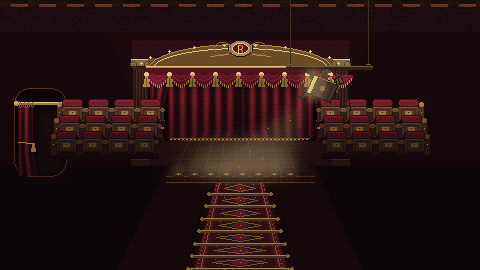
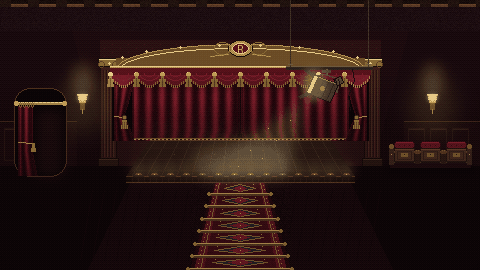
Art: club stage clears the exit, one row of seats and a wider stage
Drop the stalls block that stood in front of the curtained lounge exit and the
back rows on the right; keep a single front row against the right wall. Widen
the proscenium, curtain, valance and stage boards into the freed space, and
put dado panelling and sconces on the bare house walls. Hotspots and the walk
area follow the new art.

Changed region(s): [[0.0938, 0.1481, 1.0, 0.6815], [0.0, 0.4444, 0.0312, 0.4741]]

diff --git a/tools/art/club.py b/tools/art/club.py
@@ -771,11 +771,14 @@ def pendant(full, x, y, pool):
     light(full, "ellipse", pool, LAMPLIGHT, 0.06, 12)
 
 
+STAGE_X0, STAGE_X1 = 100, 380  # the proscenium, widened now the stalls are gone
+
+
 def proscenium(img):
     """The gilt proscenium arch framing the stage, its wall darker than the house."""
     d = ImageDraw.Draw(img)
-    d.polygon([(108, 0), (W - 109, 0), (324, 136), (156, 136)], fill=hx("1c0a0e"))
-    x0, x1, y0 = 132, 348, 10
+    x0, x1, y0 = STAGE_X0, STAGE_X1, 10
+    d.polygon([(x0 - 28, 0), (x1 + 28, 0), (x1 - 8, 136), (x0 + 8, 136)], fill=hx("1c0a0e"))
     d.rectangle([x0, y0, x1, 136], fill=hx("2a1014"))
     for x in range(x0 + 4, x1 - 2, 8):
         for y in range(y0 + 4 + (x // 8) % 2 * 4, 40, 8):
@@ -799,7 +802,7 @@ def proscenium(img):
     d.arc([x0 + 20, y0 + 8, x1 - 20, 60], 180, 360, fill=hx("e0c070"))
     for k in range(10):
         a = math.pi * (k + 0.5) / 10
-        px_, py_ = 240 - math.cos(a) * 100, 37 - math.sin(a) * 22
+        px_, py_ = 240 - math.cos(a) * ((x1 - x0) / 2 - 8), 37 - math.sin(a) * 22
         d.ellipse([px_ - 1, py_ - 1, px_ + 1, py_ + 1], fill=hx("f0d088"))
     d.ellipse([228, y0, 252, y0 + 16], fill=BRASS, outline=WOOD_DEEP)
     d.ellipse([232, y0 + 3, 248, y0 + 13], fill=hx("5a1018"), outline=hx("e0c070"))
@@ -813,18 +816,18 @@ def proscenium(img):
 def stage_backdrop(img):
     """The house curtain: a fringed valance, two velvet panels meeting at a seam, tied-back legs either side."""
     d = ImageDraw.Draw(img)
-    d.rectangle([148, 40, 332, 110], fill=hx("0a0406"))
+    d.rectangle([STAGE_X0 + 12, 40, STAGE_X1 - 12, 110], fill=hx("0a0406"))
     px = img.load()
-    x0, x1, y0, y1 = 168, 312, 46, 110
-    curtain_panel(px, y0, y1, lambda y: (x0, 239 - max(0, (y - 100)) * 0.3), 6, 0.3, 3011)
-    curtain_panel(px, y0, y1, lambda y: (241 + max(0, (y - 100)) * 0.3, x1), 6, 2.1, 3012)
+    x0, x1, y0, y1 = STAGE_X0 + 32, STAGE_X1 - 32, 46, 110
+    curtain_panel(px, y0, y1, lambda y: (x0, 239 - max(0, (y - 100)) * 0.3), 8, 0.3, 3011)
+    curtain_panel(px, y0, y1, lambda y: (241 + max(0, (y - 100)) * 0.3, x1), 8, 2.1, 3012)
     d.line([(240, y0), (240, y1)], fill=hx("16030a"))
     for x in range(x0, x1 + 1):
         if (x // 2) % 2:
             d.point((x, y1 - 1), fill=hx("c8a050"))
         d.point((x, y1 - 2), fill=hx("7a5a24"))
     # side legs caught back with gilt cords
-    for a, b, tie, s in ((150, 170, 86, 1), (310, 330, 86, -1)):
+    for a, b, tie, s in ((x0 - 18, x0 + 2, 86, 1), (x1 - 2, x1 + 18, 86, -1)):
         def leg(y, a=a, b=b, tie=tie, s=s):
             if y < tie:
                 t = max(0, (y - y0) / (tie - y0))
@@ -840,41 +843,43 @@ def stage_backdrop(img):
         for tx in range(cx - 2, cx + 3, 2):
             d.line([(tx, tie + 6), (tx, tie + 12)], fill=hx("7a5a24"))
     # the valance: swags, bullion fringe, tassels between
-    d.rectangle([146, 36, 334, 46], fill=hx("5a1018"))
-    d.line([(146, 36), (334, 36)], fill=hx("f0d088"))
-    d.line([(146, 37), (334, 37)], fill=BRASS)
-    for sx in range(146, 334, 23):
-        d.chord([sx, 34, sx + 23, 56], 0, 180, fill=hx("7a1a26"))
-        d.arc([sx, 34, sx + 23, 56], 0, 180, fill=hx("2a060c"))
-        d.arc([sx + 3, 34, sx + 20, 50], 15, 165, fill=hx("a03040"))
-        d.arc([sx + 6, 36, sx + 17, 46], 20, 160, fill=hx("8a2232"))
-        for fx in range(sx + 1, sx + 23, 2):
-            fy = 45 + round(10 * math.sin(math.pi * (fx - sx) / 23))
+    vl, vr, sw = STAGE_X0 + 10, STAGE_X1 - 10, 26
+    d.rectangle([vl, 36, vr, 46], fill=hx("5a1018"))
+    d.line([(vl, 36), (vr, 36)], fill=hx("f0d088"))
+    d.line([(vl, 37), (vr, 37)], fill=BRASS)
+    for sx in range(vl, vr, sw):
+        d.chord([sx, 34, sx + sw, 56], 0, 180, fill=hx("7a1a26"))
+        d.arc([sx, 34, sx + sw, 56], 0, 180, fill=hx("2a060c"))
+        d.arc([sx + 3, 34, sx + sw - 3, 50], 15, 165, fill=hx("a03040"))
+        d.arc([sx + 7, 36, sx + sw - 7, 46], 20, 160, fill=hx("8a2232"))
+        for fx in range(sx + 1, sx + sw, 2):
+            fy = 45 + round(10 * math.sin(math.pi * (fx - sx) / sw))
             d.line([(fx, fy), (fx, fy + 2)], fill=BRASS if fx % 4 else hx("e0c070"))
         d.ellipse([sx - 2, 42, sx + 2, 46], fill=hx("e0c070"))
         d.polygon([(sx - 1, 46), (sx + 1, 46), (sx + 3, 56), (sx - 3, 56)], fill=BRASS)
         d.line([(sx, 48), (sx, 56)], fill=hx("7a5a24"))
-    shadow(img, "rect", [168, 46, 312, 60], 0.3, 4)
+    shadow(img, "rect", [x0, 46, x1, 60], 0.3, 4)
     # the stage boards, an apron with footlights
-    d.polygon([(184, 110), (296, 110), (314, 146), (166, 146)], fill=WOOD_DARK)
-    d.line([(184, 110), (296, 110)], fill=mul(WOOD, 1.1))
-    for x in range(188, 296, 12):
-        d.line([(x, 111), (240 + (x - 240) * 1.3, 146)], fill=hx("3a2216"))
+    bl, br, al, ar = x0 + 18, x1 - 18, x0 - 6, x1 + 6
+    d.polygon([(bl, 110), (br, 110), (ar, 146), (al, 146)], fill=WOOD_DARK)
+    d.line([(bl, 110), (br, 110)], fill=mul(WOOD, 1.1))
+    for x in range(bl + 4, br, 12):
+        d.line([(x, 111), (240 + (x - 240) * (ar - 240) / (br - 240), 146)], fill=hx("3a2216"))
     for y in (118, 129, 140):
         k = (y - 110) / 36
-        d.line([(184 - 18 * k + 2, y), (296 + 18 * k - 2, y)], fill=hx("2e1a10"))
-    for x, y in ((214, 124), (262, 120), (230, 136), (282, 132)):
+        d.line([(bl - 24 * k + 2, y), (br + 24 * k - 2, y)], fill=hx("2e1a10"))
+    for x, y in ((174, 124), (214, 124), (262, 120), (230, 136), (282, 132), (318, 126)):
         d.point((x, y), fill=hx("5a3a24"))
-    d.polygon([(166, 146), (314, 146), (314, 152), (166, 152)], fill=WOOD_DEEP)
-    d.line([(166, 146), (314, 146)], fill=mul(WOOD, 1.15))
-    d.line([(166, 152), (314, 152)], fill=hx("6a4a24"))
-    for x in range(172, 312, 6):
+    d.polygon([(al, 146), (ar, 146), (ar, 152), (al, 152)], fill=WOOD_DEEP)
+    d.line([(al, 146), (ar, 146)], fill=mul(WOOD, 1.15))
+    d.line([(al, 152), (ar, 152)], fill=hx("6a4a24"))
+    for x in range(al + 6, ar - 2, 6):
         d.line([(x, 148), (x, 151)], fill=hx("2a160c"))
-    for x in range(178, 306, 16):
+    for x in range(al + 12, ar - 6, 16):
         d.chord([x - 5, 142, x + 5, 150], 180, 360, fill=hx("6a4a24"), outline=hx("2a1a0a"))
         d.point((x, 144), fill=hx("fff0c0"))
         light(img, "ellipse", [x - 7, 132, x + 7, 148], hx("f8d28a"), 0.18, 4)
-    light(img, "rect", [176, 96, 304, 146], hx("f8d28a"), 0.06, 10)
+    light(img, "rect", [al + 10, 96, ar - 10, 146], hx("f8d28a"), 0.06, 10)
 
 
 def theatre_seat(d, x, y, shade):
@@ -898,22 +903,35 @@ def theatre_seat(d, x, y, shade):
 
 
 def seating(img):
+    """A single front row of stalls along the right wall, on a low riser with brass-capped aisle ends."""
     d = ImageDraw.Draw(img)
-    for i, y in enumerate((78, 94, 110)):
-        shade = i / 3
-        for side in (-1, 1):
-            xs = [240 + side * (90 + j * 26 + i * 3) for j in range(4)]
-            lo, hi = min(xs) - 14, max(xs) + 14
-            # the stepped riser each row stands on, with a brass nosing
-            d.rectangle([lo, y + 12, hi, y + 18], fill=mix(hx("2a1014"), hx("140608"), shade))
-            d.line([(lo, y + 12), (hi, y + 12)], fill=mix(BRASS, hx("1a0a08"), 0.4 + shade * 0.4))
-            d.line([(lo, y + 18), (hi, y + 18)], fill=hx("0e0406"))
-            for x in xs:
-                theatre_seat(d, x, y, shade)
-            end = hi - 1 if side > 0 else lo + 1
-            d.rectangle([end - 2, y - 4, end + 2, y + 14], fill=mix(hx("5a3424"), hx("1a0c08"), shade))
-            d.ellipse([end - 2, y - 6, end + 2, y - 2], fill=mix(BRASS, hx("2a1a0a"), shade))
-            d.point((end, y + 4), fill=hx("e0c070"))
+    y, shade = 120, 0.3
+    xs = [404 + j * 26 for j in range(3)]
+    lo, hi = min(xs) - 14, max(xs) + 14
+    shadow(img, "rect", [lo - 2, y + 14, hi + 2, y + 22], 0.5, 4)
+    d.rectangle([lo, y + 12, hi, y + 18], fill=mix(hx("2a1014"), hx("140608"), shade))
+    d.line([(lo, y + 12), (hi, y + 12)], fill=mix(BRASS, hx("1a0a08"), 0.4 + shade * 0.4))
+    d.line([(lo, y + 18), (hi, y + 18)], fill=hx("0e0406"))
+    for x in xs:
+        theatre_seat(d, x, y, shade)
+    for end in (lo + 1, hi - 1):
+        d.rectangle([end - 2, y - 4, end + 2, y + 14], fill=mix(hx("5a3424"), hx("1a0c08"), shade))
+        d.ellipse([end - 2, y - 6, end + 2, y - 2], fill=mix(BRASS, hx("2a1a0a"), shade))
+        d.point((end, y + 4), fill=hx("e0c070"))
+
+
+def side_walls(img):
+    """Dado panelling and sconces on the house walls either side of the proscenium."""
+    d = ImageDraw.Draw(img)
+    for a, b in ((0, STAGE_X0 - 24), (STAGE_X1 + 24, W - 1)):
+        d.rectangle([a, 92, b, 136], fill=hx("1e0c0e"))
+        d.line([(a, 91), (b, 91)], fill=mul(WOOD, 0.8))
+        d.line([(a, 92), (b, 92)], fill=WOOD_DEEP)
+        for x in range(a + 4, b - 12, 22):
+            d.rectangle([x, 98, x + 16, 130], outline=hx("2e1812"))
+            d.line([(x + 1, 99), (x + 15, 99)], fill=hx("3a2016"))
+    sconce(img, 82, 70)
+    sconce(img, 432, 70)
 
 
 def aisle_rug(img):
@@ -1008,10 +1026,11 @@ def stage_scene():
     img = Image.new("RGB", (W, H))
     room_shell(img, 136, (240, -180), 320)
     proscenium(img)
+    side_walls(img)
     d = ImageDraw.Draw(img)
     d.polygon([(0, 136), (W - 1, 136), (W - 1, H - 1), (0, H - 1)], fill=hx("12070a"))
-    d.polygon([(168, 132), (312, 132), (362, H - 1), (118, H - 1)], fill=hx("1c0b0f"))
-    for x in range(120, 360, 12):
+    d.polygon([(140, 132), (340, 132), (392, H - 1), (88, H - 1)], fill=hx("1c0b0f"))
+    for x in range(92, 392, 12):
         d.line([(x, 160), (x - 12, 230)], fill=hx("18080c"))
     aisle_rug(img)
     stage_backdrop(img)
